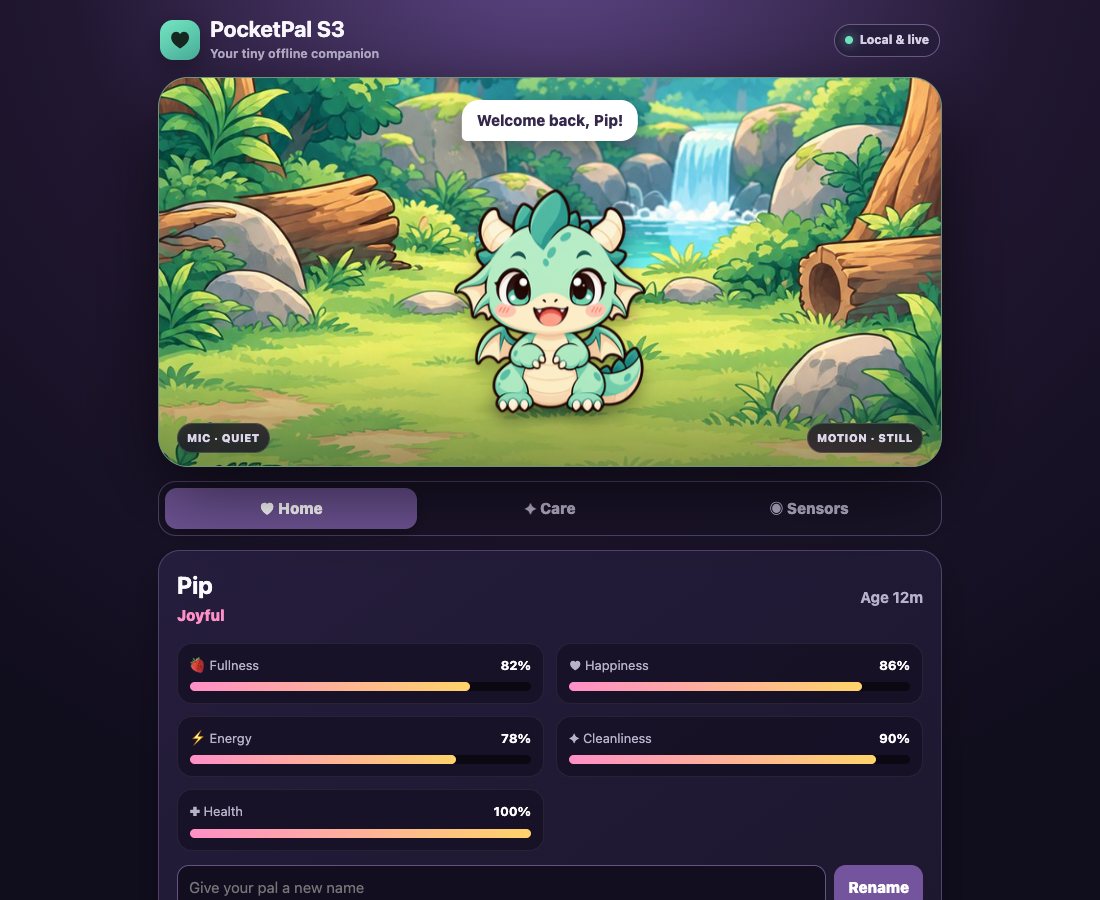
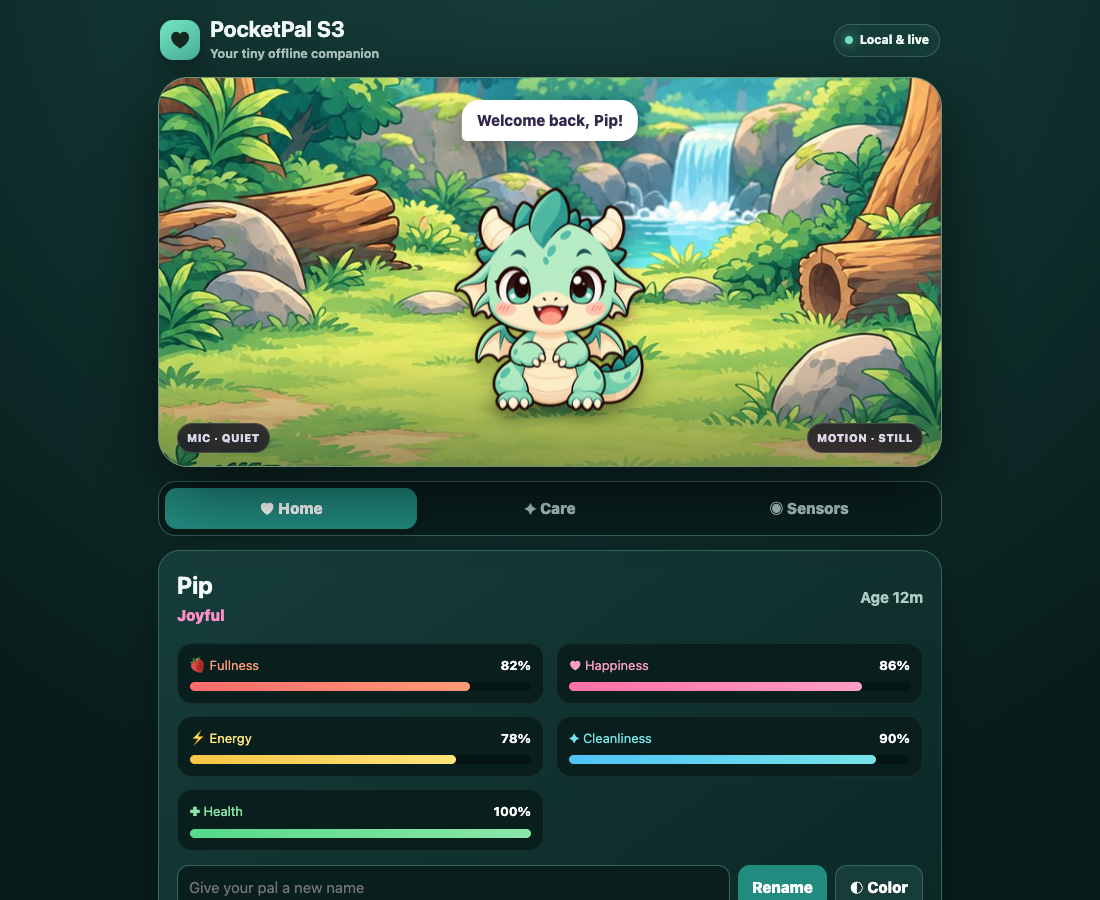
feat: add saved color themes and matching stat gradients

diff --git a/src/WebPortal.cpp b/src/WebPortal.cpp
@@ -13,20 +13,28 @@ const char kPage[] PROGMEM = R"HTML(
 <!doctype html><html lang="en"><head><meta charset="utf-8">
 <meta name="viewport" content="width=device-width,initial-scale=1">
 <title>PocketPal S3</title><style>
-:root{color-scheme:dark;--bg:#100d1d;--surface:#211a36;--surface2:#2a2143;--line:#504269;--ink:#fcf9ff;--muted:#b9b0ca;--pink:#ff8fc7;--mint:#74e6c1;--sun:#ffd36a;--blue:#8db9ff}
-*{box-sizing:border-box}body{margin:0;min-height:100vh;background:radial-gradient(circle at 50% -10%,#62498b 0,#211731 40%,var(--bg) 78%);font:15px/1.4 ui-rounded,system-ui,-apple-system,sans-serif;color:var(--ink)}button,input,select{font:inherit}button{color:inherit}main{width:min(100%,820px);margin:auto;padding:18px 18px 34px}.topbar{display:flex;align-items:center;justify-content:space-between;margin:0 2px 14px}.brand{display:flex;align-items:center;gap:10px}.logo{display:grid;place-items:center;width:40px;height:40px;border-radius:13px;background:linear-gradient(145deg,var(--mint),#4bb39f);color:#152820;font-size:23px;box-shadow:0 8px 24px #0005}.brand h1{margin:0;font-size:22px;line-height:1}.brand small{display:block;margin-top:5px;color:var(--muted);font-weight:650}.online{display:flex;align-items:center;gap:7px;padding:7px 10px;border:1px solid #6e5c88;border-radius:99px;background:#251d3bcc;color:#dcd4eb;font-size:12px;font-weight:800}.dot{width:8px;height:8px;border-radius:50%;background:var(--mint);box-shadow:0 0 12px var(--mint)}
+:root{color-scheme:dark;--base:#163D3A;--bg:#071c1b;--surface:#10312e;--surface2:#163D3A;--line:#38645f;--ink:#f4fcfa;--muted:#b1c9c5;--accent:#218b80;--accent-hover:#2aa496;--input:#081f1d;--panel:#0b2825;--track:#041512;--pink:#ff8fc7;--mint:#74e6c1;--sun:#ffd36a;--blue:#8db9ff}
+:root[data-theme="purple"]{--base:#513c77;--bg:#100d1d;--surface:#211a36;--surface2:#2a2143;--line:#504269;--ink:#fcf9ff;--muted:#b9b0ca;--accent:#74559d;--accent-hover:#8063ac;--input:#120e20;--panel:#1d172f;--track:#0b0812}
+:root[data-theme="pine"]{--base:#1E352D;--bg:#0a1913;--surface:#162e24;--surface2:#1E352D;--line:#416754;--ink:#f5fcf7;--muted:#b5cbbc;--accent:#377d5f;--accent-hover:#469b75;--input:#0d2118;--panel:#11261c;--track:#06150d}
+:root[data-theme="navy"]{--base:#172A3A;--bg:#07131e;--surface:#112a3d;--surface2:#172A3A;--line:#35556e;--ink:#f4faff;--muted:#b2c5d5;--accent:#2d6a96;--accent-hover:#3984b8;--input:#091b2a;--panel:#0d2232;--track:#04111d}
+:root[data-theme="charcoal"]{--base:#292A2D;--bg:#131415;--surface:#242528;--surface2:#292A2D;--line:#54565c;--ink:#fafafa;--muted:#c4c3c1;--accent:#62656c;--accent-hover:#7b7e86;--input:#191a1c;--panel:#202124;--track:#101112}
+*{box-sizing:border-box}body{margin:0;min-height:100vh;background:radial-gradient(circle at 50% -10%,var(--base) 0,var(--surface) 40%,var(--bg) 78%);font:15px/1.4 ui-rounded,system-ui,-apple-system,sans-serif;color:var(--ink)}button,input,select{font:inherit}button{color:inherit}main{width:min(100%,820px);margin:auto;padding:18px 18px 34px}.topbar{display:flex;align-items:center;justify-content:space-between;margin:0 2px 14px}.brand{display:flex;align-items:center;gap:10px}.logo{display:grid;place-items:center;width:40px;height:40px;border-radius:13px;background:linear-gradient(145deg,var(--mint),#4bb39f);color:#152820;font-size:23px;box-shadow:0 8px 24px #0005}.brand h1{margin:0;font-size:22px;line-height:1}.brand small{display:block;margin-top:5px;color:var(--muted);font-weight:650}.online{display:flex;align-items:center;gap:7px;padding:7px 10px;border:1px solid var(--line);border-radius:99px;background:var(--surface2);color:var(--ink);font-size:12px;font-weight:800}.dot{width:8px;height:8px;border-radius:50%;background:var(--mint);box-shadow:0 0 12px var(--mint)}
 .room{position:relative;height:390px;overflow:hidden;border:1px solid #71937c;border-radius:30px;background:#365941 url('/room/forest-wide.jpg') center center/cover no-repeat;box-shadow:0 24px 70px #0009}.room:before{content:'';position:absolute;inset:0;background:linear-gradient(transparent 70%,#10251d66);pointer-events:none}.ground-shadow{position:absolute;z-index:2;left:50%;bottom:45px;width:165px;height:25px;transform:translateX(-50%);border-radius:50%;background:radial-gradient(ellipse,#16382980,transparent 70%);filter:blur(3px)}.bubble{position:absolute;z-index:4;top:22px;left:50%;max-width:min(330px,62%);transform:translateX(-50%);padding:10px 15px;border-radius:17px 17px 17px 5px;background:#fff;color:#34294c;font-weight:800;text-align:center;box-shadow:0 8px 22px #0005}.room-meta{position:absolute;z-index:5;left:18px;right:18px;bottom:13px;display:flex;justify-content:space-between;pointer-events:none}.chip{padding:6px 9px;border:1px solid #ffffff25;border-radius:99px;background:#171122c9;backdrop-filter:blur(8px);color:#ddd5ea;font-size:11px;font-weight:850;text-transform:uppercase;letter-spacing:.04em}
 .pet{position:absolute;z-index:3;left:50%;bottom:49px;width:230px;height:230px;transform:translateX(-50%);transform-origin:50% 95%;animation:bob 2.2s ease-in-out infinite}.dragon{display:block;width:100%;height:100%;object-fit:contain;filter:drop-shadow(0 10px 8px #0004)}.pet.sleeping{animation:none}.pet.sleeping:after{content:'Z z';position:absolute;right:12px;top:72px;color:#fff;font-weight:900;font-size:23px}.pet.excited{animation:bob .72s ease-in-out infinite}.pet.surprised{animation:jump .42s ease-out infinite}.pet.motion-tilt-left{animation:none;transform:translateX(-56%) rotate(-7deg)}.pet.motion-tilt-right{animation:none;transform:translateX(-44%) rotate(7deg)}.pet.motion-tilt-forward{animation:none;transform:translateX(-50%) scale(.94)}.pet.motion-tilt-back{animation:none;transform:translateX(-50%) scale(1.06)}.pet.motion-shake{animation:shake .18s linear infinite}.pet.motion-rocking{animation:rock .7s ease-in-out infinite}
-.tabs{display:grid;grid-template-columns:repeat(3,1fr);gap:7px;margin:14px 0;padding:6px;border:1px solid var(--line);border-radius:18px;background:#191327cc}.tab{border:0;border-radius:12px;padding:10px;background:transparent;color:var(--muted);font-weight:850;cursor:pointer}.tab.active{background:#6c5292;color:#fff;box-shadow:0 5px 14px #0004}.panel{display:none}.panel.active{display:block}.card{padding:18px;border:1px solid var(--line);border-radius:22px;background:linear-gradient(145deg,#251d3c,#1d172f);box-shadow:0 14px 35px #0004}.section-title{display:flex;align-items:flex-start;justify-content:space-between;gap:12px;margin-bottom:15px}.section-title h2,.identity h2{margin:0;font-size:24px}.section-title p{margin:4px 0 0;color:var(--muted)}.identity{display:flex;align-items:center;justify-content:space-between;gap:12px}.mood{margin-top:3px;color:var(--pink);font-weight:850;text-transform:capitalize}.age{color:var(--muted);font-weight:700}.stats{display:grid;grid-template-columns:repeat(2,1fr);gap:12px;margin-top:17px}.stat{padding:12px;border:1px solid #ffffff12;border-radius:15px;background:#120e20aa}.stat label{display:flex;justify-content:space-between;color:var(--muted);font-size:13px}.stat b{color:#fff}.track,.meter{height:9px;margin-top:8px;border-radius:99px;background:#0b0812;overflow:hidden}.fill,.meter-fill{height:100%;width:0;border-radius:inherit;background:linear-gradient(90deg,var(--pink),var(--sun));transition:width .3s}.settings{display:flex;gap:8px;margin-top:14px}.settings input{min-width:0;flex:1;border:1px solid #66527f;border-radius:12px;padding:11px;background:#120e20;color:#fff}.primary,.secondary{border:0;border-radius:12px;padding:11px 14px;background:#74559d;color:#fff;font-weight:850;cursor:pointer}.secondary{border:1px solid #76668d;background:#2b2340}.primary:active,.secondary:active,.action:active{transform:translateY(1px)}
-.actions{display:grid;grid-template-columns:repeat(5,1fr);gap:10px}.action{min-height:104px;border:1px solid #ffffff17;border-radius:18px;padding:13px 8px;background:linear-gradient(145deg,#3a2c56,#29203f);color:#fff;cursor:pointer}.action span{display:block;font-size:29px}.action b{display:block;margin-top:7px}.action small{display:block;margin-top:3px;color:var(--muted);font-size:11px}.action:hover{border-color:#a887cc;background:#493664}.sensor-grid{display:grid;grid-template-columns:1fr 1fr;gap:12px}.sensor{padding:16px;border:1px solid #4c7e76;border-radius:18px;background:linear-gradient(145deg,#173338,#12282d)}.sensor.motion{border-color:#68558a;background:linear-gradient(145deg,#2d2345,#211a35)}.sensor-head{display:flex;justify-content:space-between;align-items:center;gap:10px}.sensor-title{font-weight:900}.sensor-state{color:var(--mint);font-size:12px;font-weight:900;text-transform:capitalize}.meter{height:12px;margin:14px 0 12px}.meter-fill{background:linear-gradient(90deg,var(--mint),var(--sun),var(--pink))}.controls{display:flex;align-items:center;justify-content:space-between;gap:8px;flex-wrap:wrap}.controls label{color:var(--muted);font-size:12px}.controls select{margin-left:4px;padding:8px;border:1px solid #716686;border-radius:10px;background:#120e20;color:#fff}.note{margin:12px 0 0;color:#abc9c4;font-size:12px}.privacy{margin-top:12px;padding:12px;border:1px solid #4d4162;border-radius:14px;background:#171124;color:var(--muted);font-size:12px}.foot{text-align:center;color:#958ba6;font-size:12px;margin:17px 0 0}
+.tabs{display:grid;grid-template-columns:repeat(3,1fr);gap:7px;margin:14px 0;padding:6px;border:1px solid var(--line);border-radius:18px;background:var(--input)}.tab{border:0;border-radius:12px;padding:10px;background:transparent;color:var(--muted);font-weight:850;cursor:pointer}.tab.active{background:var(--accent);color:#fff;box-shadow:0 5px 14px #0004}.panel{display:none}.panel.active{display:block}.card{padding:18px;border:1px solid var(--line);border-radius:22px;background:linear-gradient(145deg,var(--surface2),var(--panel));box-shadow:0 14px 35px #0004}.section-title{display:flex;align-items:flex-start;justify-content:space-between;gap:12px;margin-bottom:15px}.section-title h2,.identity h2{margin:0;font-size:24px}.section-title p{margin:4px 0 0;color:var(--muted)}.identity{display:flex;align-items:center;justify-content:space-between;gap:12px}.mood{margin-top:3px;color:var(--pink);font-weight:850;text-transform:capitalize}.age{color:var(--muted);font-weight:700}.stats{display:grid;grid-template-columns:repeat(2,1fr);gap:12px;margin-top:17px}.stat{padding:12px;border:1px solid #ffffff12;border-radius:15px;background:var(--input)}.stat label{display:flex;justify-content:space-between;color:var(--muted);font-size:13px}.stat b{color:#fff}.track,.meter{height:9px;margin-top:8px;border-radius:99px;background:var(--track);overflow:hidden}.fill,.meter-fill{height:100%;width:0;border-radius:inherit;background:linear-gradient(90deg,var(--pink),var(--sun));transition:width .3s}.settings{display:flex;gap:8px;margin-top:14px}.settings input{min-width:0;flex:1;border:1px solid var(--line);border-radius:12px;padding:11px;background:var(--input);color:#fff}.primary,.secondary{border:0;border-radius:12px;padding:11px 14px;background:var(--accent);color:#fff;font-weight:850;cursor:pointer}.secondary{border:1px solid var(--line);background:var(--surface2)}.primary:active,.secondary:active,.action:active{transform:translateY(1px)}
+.actions{display:grid;grid-template-columns:repeat(5,1fr);gap:10px}.action{min-height:104px;border:1px solid #ffffff17;border-radius:18px;padding:13px 8px;background:linear-gradient(145deg,var(--surface2),var(--panel));color:#fff;cursor:pointer}.action span{display:block;font-size:29px}.action b{display:block;margin-top:7px}.action small{display:block;margin-top:3px;color:var(--muted);font-size:11px}.action:hover{border-color:var(--muted);background:var(--accent-hover)}.sensor-grid{display:grid;grid-template-columns:1fr 1fr;gap:12px}.sensor{padding:16px;border:1px solid var(--line);border-radius:18px;background:linear-gradient(145deg,var(--surface2),var(--panel))}.sensor.motion{border-color:var(--line);background:var(--panel)}.sensor-head{display:flex;justify-content:space-between;align-items:center;gap:10px}.sensor-title{font-weight:900}.sensor-state{color:var(--mint);font-size:12px;font-weight:900;text-transform:capitalize}.meter{height:12px;margin:14px 0 12px}.meter-fill{background:linear-gradient(90deg,var(--mint),var(--sun),var(--pink))}.controls{display:flex;align-items:center;justify-content:space-between;gap:8px;flex-wrap:wrap}.controls label{color:var(--muted);font-size:12px}.controls select{margin-left:4px;padding:8px;border:1px solid var(--line);border-radius:10px;background:var(--input);color:#fff}.note{margin:12px 0 0;color:var(--muted);font-size:12px}.privacy{margin-top:12px;padding:12px;border:1px solid var(--line);border-radius:14px;background:var(--input);color:var(--muted);font-size:12px}.foot{text-align:center;color:var(--muted);font-size:12px;margin:17px 0 0}
 @keyframes bob{50%{transform:translate(-50%,-7px)}}@keyframes jump{50%{transform:translate(-50%,-18px) scale(1.06)}}@keyframes shake{25%{transform:translateX(-57%) rotate(-4deg)}75%{transform:translateX(-43%) rotate(4deg)}}@keyframes rock{25%{transform:translateX(-50%) rotate(-9deg)}75%{transform:translateX(-50%) rotate(9deg)}}
 @media(max-width:620px){main{padding:10px 10px 24px}.topbar{margin:4px 3px 10px}.online span:last-child{display:none}.room{height:390px;border-radius:23px;background-image:url('/room/forest-mobile.jpg');background-position:center 65%}.ground-shadow{bottom:36px;width:140px}.bubble{top:17px;max-width:66%;font-size:13px}.pet{bottom:39px;width:200px;height:200px}.room-meta{left:10px;right:10px;bottom:9px}.tabs{position:sticky;z-index:20;bottom:8px;order:3;box-shadow:0 10px 35px #000b}.stats,.sensor-grid{grid-template-columns:1fr}.actions{grid-template-columns:repeat(2,1fr)}.action{min-height:91px}.action:last-child{grid-column:1/-1}.card{padding:15px}.settings{flex-direction:column}}
 @media(prefers-reduced-motion:reduce){*,*:before,*:after{animation-duration:.01ms!important;animation-iteration-count:1!important;transition:none!important}}
+
+.stat[data-stat="fullness"]{--stat-start:#FF6B6B;--stat-end:#FF9A76}.stat[data-stat="happiness"]{--stat-start:#FF70A6;--stat-end:#FF9EC4}.stat[data-stat="energy"]{--stat-start:#F6C445;--stat-end:#FFE47A}.stat[data-stat="cleanliness"]{--stat-start:#4FC3F7;--stat-end:#76E4E8}.stat[data-stat="health"]{--stat-start:#55D98A;--stat-end:#8BE6A8}.stat .fill{background:linear-gradient(90deg,var(--stat-start),var(--stat-end))}.stat label span{color:var(--stat-end)}
+.settings{display:grid;grid-template-columns:minmax(0,1fr) auto auto}.theme-picker[hidden]{display:none}.theme-picker{margin:12px 0 0;padding:12px;border:1px solid var(--line);border-radius:15px;background:var(--input)}.theme-picker legend{color:var(--muted);padding:0 6px;font-size:13px}.theme-options{display:grid;grid-template-columns:repeat(2,minmax(0,1fr));gap:8px}.theme-choice{display:flex;align-items:center;gap:9px;min-height:44px;padding:9px;border:1px solid var(--line);border-radius:11px;background:var(--panel);text-align:left;font-size:12px;font-weight:750;cursor:pointer}.theme-choice[aria-pressed="true"]{border-color:var(--mint);box-shadow:inset 0 0 0 1px var(--mint)}.swatch{flex:none;width:21px;height:21px;border:1px solid #ffffff66;border-radius:50%;background:var(--swatch)}.theme-choice:disabled{opacity:.65;cursor:wait}.color-message{margin:8px 0 0;font-size:12px;color:var(--muted)}button:focus-visible,input:focus-visible,select:focus-visible{outline:2px solid var(--mint);outline-offset:3px}
+@media(max-width:620px){.settings{grid-template-columns:1fr 1fr}.settings input{grid-column:1/-1}.theme-options{grid-template-columns:1fr 1fr}}
 </style></head><body><main>
 <header class="topbar"><div class="brand"><div class="logo">♥</div><div><h1>PocketPal S3</h1><small>Your tiny offline companion</small></div></div><div class="online"><span class="dot"></span><span>Local &amp; live</span></div></header>
 <section class="room" aria-label="PocketPal forest clearing"><div id="bubble" class="bubble" aria-live="polite">Waking up…</div><div class="ground-shadow"></div><div id="pet" class="pet"><img id="dragon" class="dragon" src="/pet/idle.png" alt="Mint-green PocketPal dragon" width="240" height="240"></div><div class="room-meta"><span id="soundChip" class="chip">Mic · calibrating</span><span id="motionChip" class="chip">Motion · calibrating</span></div></section>
 <nav class="tabs" aria-label="PocketPal sections"><button class="tab active" data-panel="home" onclick="showPanel('home')">♥ Home</button><button class="tab" data-panel="care" onclick="showPanel('care')">✦ Care</button><button class="tab" data-panel="sensors" onclick="showPanel('sensors')">◉ Sensors</button></nav>
-<section id="home" class="panel active"><div class="card"><div class="identity"><div><h2 id="name">Pip</h2><div id="mood" class="mood">Content</div></div><div id="age" class="age">Age 0m</div></div><div id="stats" class="stats"></div><form class="settings" onsubmit="renamePet(event)"><input id="newName" maxlength="12" aria-label="New pet name" placeholder="Give your pal a new name"><button class="primary">Rename</button></form></div></section>
+<section id="home" class="panel active"><div class="card"><div class="identity"><div><h2 id="name">Pip</h2><div id="mood" class="mood">Content</div></div><div id="age" class="age">Age 0m</div></div><div id="stats" class="stats"></div><form class="settings" onsubmit="renamePet(event)"><input id="newName" maxlength="12" aria-label="New pet name" placeholder="Give your pal a new name"><button class="primary">Rename</button><button id="colorButton" class="secondary" type="button" aria-expanded="false" aria-controls="themePicker" onclick="toggleColors()">◐ Color</button></form><fieldset id="themePicker" class="theme-picker" hidden><legend>Choose your color</legend><div class="theme-options"><button type="button" class="theme-choice" data-theme-choice="teal" aria-pressed="true" onclick="setTheme('teal')"><span class="swatch" style="--swatch:#163D3A" aria-hidden="true"></span>Deep Forest Teal</button><button type="button" class="theme-choice" data-theme-choice="purple" aria-pressed="false" onclick="setTheme('purple')"><span class="swatch" style="--swatch:#513c77" aria-hidden="true"></span>Purple</button><button type="button" class="theme-choice" data-theme-choice="pine" aria-pressed="false" onclick="setTheme('pine')"><span class="swatch" style="--swatch:#1E352D" aria-hidden="true"></span>Dark Pine</button><button type="button" class="theme-choice" data-theme-choice="navy" aria-pressed="false" onclick="setTheme('navy')"><span class="swatch" style="--swatch:#172A3A" aria-hidden="true"></span>Deep Navy</button><button type="button" class="theme-choice" data-theme-choice="charcoal" aria-pressed="false" onclick="setTheme('charcoal')"><span class="swatch" style="--swatch:#292A2D" aria-hidden="true"></span>Warm Charcoal</button></div><p id="colorMessage" class="color-message" role="status">Saved on your PocketPal.</p></fieldset></div></section>
 <section id="care" class="panel"><div class="card"><div class="section-title"><div><h2>Care time</h2><p>Every little action shapes your pal’s day.</p></div></div><div class="actions"><button class="action" onclick="act('feed')"><span>🍓</span><b>Feed</b><small>Restore fullness</small></button><button class="action" onclick="act('play')"><span>🎾</span><b>Play</b><small>Build happiness</small></button><button class="action" onclick="act('clean')"><span>🫧</span><b>Clean</b><small>Fresh and sparkly</small></button><button class="action" onclick="act('sleep')"><span>🌙</span><b>Sleep</b><small>Rest or wake up</small></button><button class="action" onclick="act('pet')"><span>💗</span><b>Pet</b><small>Share affection</small></button></div></div></section>
 <section id="sensors" class="panel"><div class="card"><div class="section-title"><div><h2>Reactions</h2><p>Live signals processed privately on your PocketPal.</p></div></div><div class="sensor-grid"><article class="sensor"><div class="sensor-head"><span class="sensor-title">🎙 Sound</span><span id="soundState" class="sensor-state">Calibrating</span></div><div class="meter"><div id="soundFill" class="meter-fill"></div></div><div class="controls"><button id="muteButton" class="secondary" onclick="setSound('toggle')">Mute</button><label>Sensitivity <select id="sensitivity" onchange="setSensitivity(this.value)"><option value="1">Low</option><option value="2">Medium</option><option value="3">High</option></select></label></div><p class="note">Reacts to loudness only. No audio is saved.</p></article><article class="sensor motion"><div class="sensor-head"><span class="sensor-title">🧭 Motion</span><span id="motionState" class="sensor-state">Calibrating</span></div><div class="meter"><div id="motionFill" class="meter-fill"></div></div><div class="controls"><label>Sensitivity <select id="motionSensitivity" onchange="setMotionSensitivity(this.value)"><option value="1">Low</option><option value="2">Medium</option><option value="3">High</option></select></label></div><p class="note">Tilt to lean, shake to play, rock to sleep.</p></article></div><div class="privacy">🔒 Everything stays between this browser and PocketPal. No internet, cloud account, recordings, or telemetry.</div></div></section>
 <p class="foot">Connected directly to PocketPal · http://pocketpal</p></main>
@@ -35,10 +43,14 @@ const labels={fullness:['🍓','Fullness'],happiness:['♥','Happiness'],energy:
 const soundMessages={low:"I'm listening…",medium:'I hear you!',high:'Whoa! That was loud!'};
 const motionMessages={shake:'That was fun!',rocking:'Getting sleepy…'};
 const byId=id=>document.getElementById(id);
+let savingTheme=false;
+function applyTheme(theme){if(!['teal','purple','pine','navy','charcoal'].includes(theme))theme='teal';document.documentElement.dataset.theme=theme;document.querySelectorAll('[data-theme-choice]').forEach(button=>button.setAttribute('aria-pressed',String(button.dataset.themeChoice===theme)))}
+function toggleColors(){const picker=byId('themePicker');picker.hidden=!picker.hidden;byId('colorButton').setAttribute('aria-expanded',String(!picker.hidden));if(!picker.hidden)picker.querySelector('[aria-pressed="true"]').focus()}
+async function setTheme(theme){if(savingTheme)return;const previous=document.documentElement.dataset.theme||'teal';savingTheme=true;applyTheme(theme);document.querySelectorAll('.theme-choice').forEach(button=>button.disabled=true);byId('colorMessage').textContent='Saving color…';try{const response=await post('/api/theme','theme='+encodeURIComponent(theme));if(!response.ok)throw Error();byId('colorMessage').textContent='Color saved on your PocketPal.'}catch(error){applyTheme(previous);byId('colorMessage').textContent='Could not save. Check your connection and try again.'}finally{savingTheme=false;document.querySelectorAll('.theme-choice').forEach(button=>button.disabled=false)}}
 function showPanel(id){document.querySelectorAll('.panel').forEach(p=>p.classList.toggle('active',p.id===id));document.querySelectorAll('.tab').forEach(t=>t.classList.toggle('active',t.dataset.panel===id))}
 function prettyAge(minutes){if(minutes<60)return'Age '+minutes+'m';const hours=Math.floor(minutes/60);return hours<48?'Age '+hours+'h':'Age '+Math.floor(hours/24)+'d'}
 async function post(url,body){return fetch(url,{method:'POST',headers:{'Content-Type':'application/x-www-form-urlencoded'},body})}
-async function refresh(){try{const r=await fetch('/api/state',{cache:'no-store'});if(!r.ok)throw Error();const s=await r.json();byId('name').textContent=s.name;byId('mood').textContent=s.mood;byId('age').textContent=prettyAge(s.ageMinutes);byId('bubble').textContent=s.sleeping?s.message:(motionMessages[s.motion.state]||soundMessages[s.sound.level]||s.message);const p=byId('pet');let petClass='pet '+s.pose;const dragon=byId('dragon'),image='/pet/'+s.pose+'.png';if(dragon.getAttribute('src')!==image)dragon.src=image;if(!['still','calibrating','unavailable'].includes(s.motion.state))petClass+=' motion-'+s.motion.state;if(p.className!==petClass)p.className=petClass;byId('stats').innerHTML=Object.entries(labels).map(([k,v])=>`<div class="stat"><label><span>${v[0]} ${v[1]}</span><b>${s[k]}%</b></label><div class="track"><div class="fill" style="width:${s[k]}%"></div></div></div>`).join('');const soundLabel=s.sound.muted?'muted':s.sound.level;byId('soundState').textContent=soundLabel;byId('soundChip').textContent='Mic · '+soundLabel;byId('soundFill').style.width=s.sound.meter+'%';byId('muteButton').textContent=s.sound.muted?'Unmute':'Mute';byId('sensitivity').value=String(s.sound.sensitivity);const motionLabel=s.motion.state.replace('tilt-','');byId('motionState').textContent=motionLabel;byId('motionChip').textContent='Motion · '+motionLabel;byId('motionFill').style.width=s.motion.meter+'%';byId('motionSensitivity').value=String(s.motion.sensitivity)}catch(e){byId('bubble').textContent='Looking for PocketPal…';byId('soundChip').textContent='Mic · offline';byId('motionChip').textContent='Motion · offline'}}
+async function refresh(){try{const r=await fetch('/api/state',{cache:'no-store'});if(!r.ok)throw Error();const s=await r.json();if(!savingTheme)applyTheme(s.theme);byId('name').textContent=s.name;byId('mood').textContent=s.mood;byId('age').textContent=prettyAge(s.ageMinutes);byId('bubble').textContent=s.sleeping?s.message:(motionMessages[s.motion.state]||soundMessages[s.sound.level]||s.message);const p=byId('pet');let petClass='pet '+s.pose;const dragon=byId('dragon'),image='/pet/'+s.pose+'.png';if(dragon.getAttribute('src')!==image)dragon.src=image;if(!['still','calibrating','unavailable'].includes(s.motion.state))petClass+=' motion-'+s.motion.state;if(p.className!==petClass)p.className=petClass;byId('stats').innerHTML=Object.entries(labels).map(([k,v])=>`<div class="stat" data-stat="${k}"><label><span>${v[0]} ${v[1]}</span><b>${s[k]}%</b></label><div class="track"><div class="fill" style="width:${s[k]}%"></div></div></div>`).join('');const soundLabel=s.sound.muted?'muted':s.sound.level;byId('soundState').textContent=soundLabel;byId('soundChip').textContent='Mic · '+soundLabel;byId('soundFill').style.width=s.sound.meter+'%';byId('muteButton').textContent=s.sound.muted?'Unmute':'Mute';byId('sensitivity').value=String(s.sound.sensitivity);const motionLabel=s.motion.state.replace('tilt-','');byId('motionState').textContent=motionLabel;byId('motionChip').textContent='Motion · '+motionLabel;byId('motionFill').style.width=s.motion.meter+'%';byId('motionSensitivity').value=String(s.motion.sensitivity)}catch(e){byId('bubble').textContent='Looking for PocketPal…';byId('soundChip').textContent='Mic · offline';byId('motionChip').textContent='Motion · offline'}}
 async function act(a){await post('/api/action','action='+encodeURIComponent(a));await refresh()}
 async function renamePet(e){e.preventDefault();const input=byId('newName'),v=input.value.trim();if(!v)return;await post('/api/name','name='+encodeURIComponent(v));input.value='';await refresh()}
 async function setSound(command){await post('/api/sound','command='+encodeURIComponent(command));await refresh()}
@@ -53,6 +65,9 @@ refresh();setInterval(refresh,500);
 WebPortal::WebPortal(PetEngine &pet, SoundSensor &sound, MotionSensor &motion) : pet_(pet), sound_(sound), motion_(motion) {}
 
 void WebPortal::begin() {
+    preferences_.begin("palui", false);
+    theme_ = preferences_.getString("theme", "teal");
+    if (!validTheme(theme_)) theme_ = "teal";
     const uint64_t chipId = ESP.getEfuseMac();
     char suffix[5];
     snprintf(suffix, sizeof(suffix), "%04X", static_cast<uint16_t>(chipId));
@@ -97,6 +112,7 @@ void WebPortal::sendState() {
     String json;
     json.reserve(640);
     json += "{\"name\":\"" + jsonEscape(s.name) + "\"";
+    json += ",\"theme\":\"" + theme_ + "\"";
     json += ",\"fullness\":" + String(s.fullness);
     json += ",\"happiness\":" + String(s.happiness);
     json += ",\"energy\":" + String(s.energy);
@@ -163,7 +179,29 @@ void WebPortal::handleMotion() {
     server_.send(200, "application/json", "{\"ok\":true}");
 }
 
+bool WebPortal::validTheme(const String &theme) {
+    return theme == "teal" || theme == "purple" || theme == "pine" ||
+           theme == "navy" || theme == "charcoal";
+}
+
+void WebPortal::handleTheme() {
+    if (!server_.hasArg("theme") || !validTheme(server_.arg("theme"))) {
+        server_.send(400, "application/json", "{\"ok\":false,\"error\":\"Choose one of the five themes.\"}");
+        return;
+    }
+    const String requested = server_.arg("theme");
+    if (requested != theme_) {
+        if (preferences_.putString("theme", requested) == 0) {
+            server_.send(500, "application/json", "{\"ok\":false,\"error\":\"Could not save the color.\"}");
+            return;
+        }
+        theme_ = requested;
+    }
+    server_.send(200, "application/json", "{\"ok\":true}");
+}
+
 void WebPortal::configureRoutes() {
+    server_.on("/api/theme", HTTP_POST, [this]() { handleTheme(); });
     server_.on("/room/forest-mobile.jpg", HTTP_GET, [this]() {
         server_.sendHeader("Cache-Control", "no-cache");
         server_.send_P(200, "image/jpeg", reinterpret_cast<const char *>(RoomAssets::forestMobile),

diff --git a/src/main.cpp b/src/main.cpp
@@ -9,7 +9,7 @@
 #include "WebPortal.h"
 
 namespace {
-constexpr char kVersion[] = "v0.5.1";
+constexpr char kVersion[] = "v0.6.0";
 constexpr uint8_t kSelectPin = 11;
 constexpr uint8_t kNextPin = 12;
 constexpr uint8_t kBrightness = 90;
@@ -78,14 +78,23 @@ uint16_t moodColor(const String &mood) {
     return TFT_CYAN;
 }
 
-void drawStat(int x, int y, const char *label, uint8_t value, uint16_t color) {
+void drawStat(int x, int y, const char *label, uint8_t value, uint32_t start, uint32_t end) {
     M5.Display.setTextSize(1);
     M5.Display.setTextColor(TFT_LIGHTGREY, TFT_BLACK);
     M5.Display.setCursor(x, y);
     M5.Display.print(label);
     M5.Display.drawRoundRect(x + 18, y, 65, 7, 3, TFT_DARKGREY);
     const int width = (61 * value) / 100;
-    if (width > 0) M5.Display.fillRoundRect(x + 20, y + 2, width, 3, 1, color);
+    for (int column = 0; column < width; ++column) {
+        const int denominator = width > 1 ? width - 1 : 1;
+        const auto channel = [&](int shift) -> uint8_t {
+            const int a = (start >> shift) & 255;
+            const int b = (end >> shift) & 255;
+            return a + (b - a) * column / denominator;
+        };
+        const uint16_t color = M5.Display.color565(channel(16), channel(8), channel(0));
+        M5.Display.drawFastVLine(x + 20 + column, y + 2, 3, color);
+    }
 }
 
 void drawPet(const PetSnapshot &s, SoundLevel soundLevel, MotionState motionState) {
@@ -135,10 +144,11 @@ void drawMainScreen() {
     M5.Display.setCursor(112, 41);
     M5.Display.print(s.mood);
 
-    drawStat(112, 57, "F", s.fullness, TFT_ORANGE);
-    drawStat(112, 69, "H", s.happiness, TFT_MAGENTA);
-    drawStat(112, 81, "E", s.energy, TFT_BLUE);
-    drawStat(112, 93, "C", s.cleanliness, TFT_CYAN);
+    drawStat(112, 50, "F", s.fullness, 0xFF6B6B, 0xFF9A76);
+    drawStat(112, 60, "H", s.happiness, 0xFF70A6, 0xFF9EC4);
+    drawStat(112, 70, "E", s.energy, 0xF6C445, 0xFFE47A);
+    drawStat(112, 80, "C", s.cleanliness, 0x4FC3F7, 0x76E4E8);
+    drawStat(112, 90, "+", s.health, 0x55D98A, 0x8BE6A8);
 
     M5.Display.fillRoundRect(6, 110, 228, 20, 7, 0x3186);
     M5.Display.setTextColor(TFT_LIGHTGREY, 0x3186);

diff --git a/src/WebPortal.h b/src/WebPortal.h
@@ -3,6 +3,7 @@
 #include <DNSServer.h>
 #include <WebServer.h>
 #include <WiFi.h>
+#include <Preferences.h>
 
 #include "PetEngine.h"
 #include "MotionSensor.h"
@@ -25,6 +26,8 @@ class WebPortal {
     DNSServer dns_;
     String ssid_;
     String password_;
+    Preferences preferences_;
+    String theme_ = "teal";
 
     void configureRoutes();
     void sendState();
@@ -32,5 +35,7 @@ class WebPortal {
     void handleName();
     void handleSound();
     void handleMotion();
+    void handleTheme();
+    static bool validTheme(const String &theme);
     static String jsonEscape(const String &value);
 };

diff --git a/README.md b/README.md
@@ -2,7 +2,7 @@
 
 PocketPal S3 is an interactive virtual pet with a live, offline WebUI for the M5StickS3.
 
-> **Early development — v0.5.1.** The original chibi dragon appears on both displays, with an illustrated forest clearing in the WebUI.
+> **Early development — v0.6.0.** The forest WebUI now has selectable color themes, and both displays share five color-coded care stats.
 
 ## First milestone
 
@@ -55,6 +55,14 @@ The dragon's WebUI setting is an illustrated forest clearing. Phone and desktop
 layouts use separate crops to keep the waterfall and open grass visible. The
 background is served directly from firmware; source and conversion instructions
 are in [assets/room](assets/room/README.md).
+
+Use **Color** beside **Rename** at the bottom of Home to choose Deep Forest Teal
+(the default), Purple, Dark Pine, Deep Navy, or Warm Charcoal. The choice is saved
+on PocketPal, survives a restart, and is shared by connected browsers.
+
+Fullness is coral, Happiness pink, Energy gold, Cleanliness aqua, and Health
+green. These stat gradients stay consistent across themes and match the five
+bars on the StickS3. Its Health bar is labeled `+`.
 
 ## Dragon artwork
 

diff --git a/CHANGELOG.md b/CHANGELOG.md
@@ -1,5 +1,14 @@
 # Changelog
 
+## v0.6.0
+
+- Added a Color button beside Rename with five selectable WebUI themes.
+- Made Deep Forest Teal (#163D3A) the default; added Purple, Dark Pine, Deep Navy, and Warm Charcoal.
+- Persisted the selected theme in device NVS and synchronized it through the state API.
+- Added instant color preview, save feedback, and recovery if a color change cannot be saved.
+- Applied distinct coral, pink, gold, aqua, and green stat gradients across every WebUI theme.
+- Matched stat gradients on the StickS3 and added Health as the fifth device bar.
+
 ## v0.5.1
 
 - Replaced the WebUI indoor room with the owner's illustrated forest clearing.
